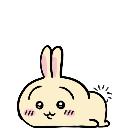
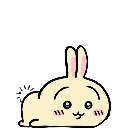
crawling back and forth

diff --git a/main.py b/main.py
@@ -14,6 +14,7 @@ class DesktopPet(QWidget):
         self.action_images = None
         self.up_down = False
         self.is_running = False
+        self.is_crawling = False
         self.is_follow_mouse = False
         self.index = 0
         self.action_distribution=[...]
@@ -31,14 +32,21 @@ class DesktopPet(QWidget):
         self.image.setPixmap(self.pet_images[0][0])
         self.running_l_images = self.loadRunning_l_Images()
         self.running_r_images = self.loadRunning_r_Images()
+        self.crawling_l_images = self.loadcrawling_l_Images()
+        self.crawling_r_images = self.loadcrawling_r_Images()
         self.current_frame =0
-        self.move_timer = QTimer()
+        self.move_timer = QTimer(self)
+        self.move_timer.timeout.connect(self.updateLeft_Right_Position)
+        self.crawl_timer = QTimer(self)
+        self.crawl_timer.timeout.connect(self.updateLeft_Right_Position)
+
 
         # self.commonAction()
         self.show()
 
     def rightMenu(self,pos):
         self.move_timer.stop()
+        self.crawl_timer.stop()
         self.myMenu = QMenu(self)
         self.actionA = QAction(QIcon("来回跑"), "来回跑", self)
         self.actionA.triggered.connect(self.moveleftRight)
@@ -48,10 +56,13 @@ class DesktopPet(QWidget):
         self.actionC.triggered.connect(self.moveSleep)
         self.actionD = QAction(QIcon("退出"), "退出", self)
         self.actionD.triggered.connect(self.quit)
+        self.actionE = QAction(QIcon("来回爬"), "来回爬", self)
+        self.actionE.triggered.connect(self.CrawlleftRight)
         self.myMenu.addAction(self.actionA)
         self.myMenu.addAction(self.actionB)
         self.myMenu.addAction(self.actionC)
         self.myMenu.addAction(self.actionD)
+        self.myMenu.addAction(self.actionE)
         self.myMenu.popup(QCursor.pos())
     def loadImage(self, imagepath):
         image = QPixmap()
@@ -77,6 +88,16 @@ class DesktopPet(QWidget):
         for i in range(33, 35):  # Assuming N frames in the animation
             runing.append(self.pet_images[i][0])
         return runing
+    def loadcrawling_l_Images(self):
+        crawling=[]
+        for i in range(37, 39):  # Assuming N frames in the animation
+            crawling.append(self.pet_images[i][0])
+        return crawling
+    def loadcrawling_r_Images(self):
+        crawling=[]
+        for i in range(19, 21):  # Assuming N frames in the animation
+            crawling.append(self.pet_images[i][0])
+        return crawling
 
     def commonAction(self):
         # 每隔一段时间做个动作
@@ -144,25 +165,41 @@ class DesktopPet(QWidget):
 
 
     def moveleftRight(self):
-        self.move_timer.timeout.connect(self.updateLeft_Right_Position)
+        self.is_running = True
+        self.is_crawling = False
+        self.current_frame=0
         self.move_timer.start(100)
 
-    def updateAnimationFrame(self):
-        if not self.is_running:
-            return
+    def CrawlleftRight(self):
+        self.is_crawling = True
+        self.is_running = False
+        self.current_frame = 0
 
-        if self.directionX>0:
-            self.current_frame = (self.current_frame + 1) % len(self.running_r_images)
-            self.image.setPixmap(self.running_r_images[self.current_frame])
-        else:
-            self.current_frame = (self.current_frame + 1) % len(self.running_l_images)
-            self.image.setPixmap(self.running_l_images[self.current_frame])
+        self.crawl_timer.start(100)
+
+
+    def updateAnimationFrame(self):
+        if self.is_running:
+            if self.directionX>0:
+                self.current_frame = (self.current_frame + 1) % len(self.running_r_images)
+                self.image.setPixmap(self.running_r_images[self.current_frame])
+            else:
+                self.current_frame = (self.current_frame + 1) % len(self.running_l_images)
+                self.image.setPixmap(self.running_l_images[self.current_frame])
+        if self.is_crawling:
+            if self.directionX>0:
+                self.current_frame = (self.current_frame + 1) % len(self.crawling_r_images)
+                self.image.setPixmap(self.crawling_r_images[self.current_frame])
+            else:
+                self.current_frame = (self.current_frame + 1) % len(self.crawling_l_images)
+                self.image.setPixmap(self.crawling_l_images[self.current_frame])
     def updateLeft_Right_Position(self):
-        self.is_running= True
+
         screenWidth = QApplication.desktop().width()
 
         newX = self.x() + self.directionX
         newY = self.y()
+        print(self.current_frame)
         # Reverse direction if the pet hits the screen edge
         if newX < 0 or newX + self.width() > screenWidth:
             self.directionX = -self.directionX
@@ -170,8 +207,12 @@ class DesktopPet(QWidget):
         self.move(newX, newY)
         self.updateAnimationFrame()
 
+
+
+
+
+
     def updatePosition(self):
-        self.is_running= True
         screenWidth = QApplication.desktop().width()
         screenHeight = QApplication.desktop().height()
 
@@ -194,6 +235,10 @@ class DesktopPet(QWidget):
 
     def moveStop(self):
         print("Stop")
+        self.crawl_timer.stop()
+        self.move_timer.stop()
+        self.is_running=False
+        self.is_crawling= False
 
 
     def moveSleep(self):
